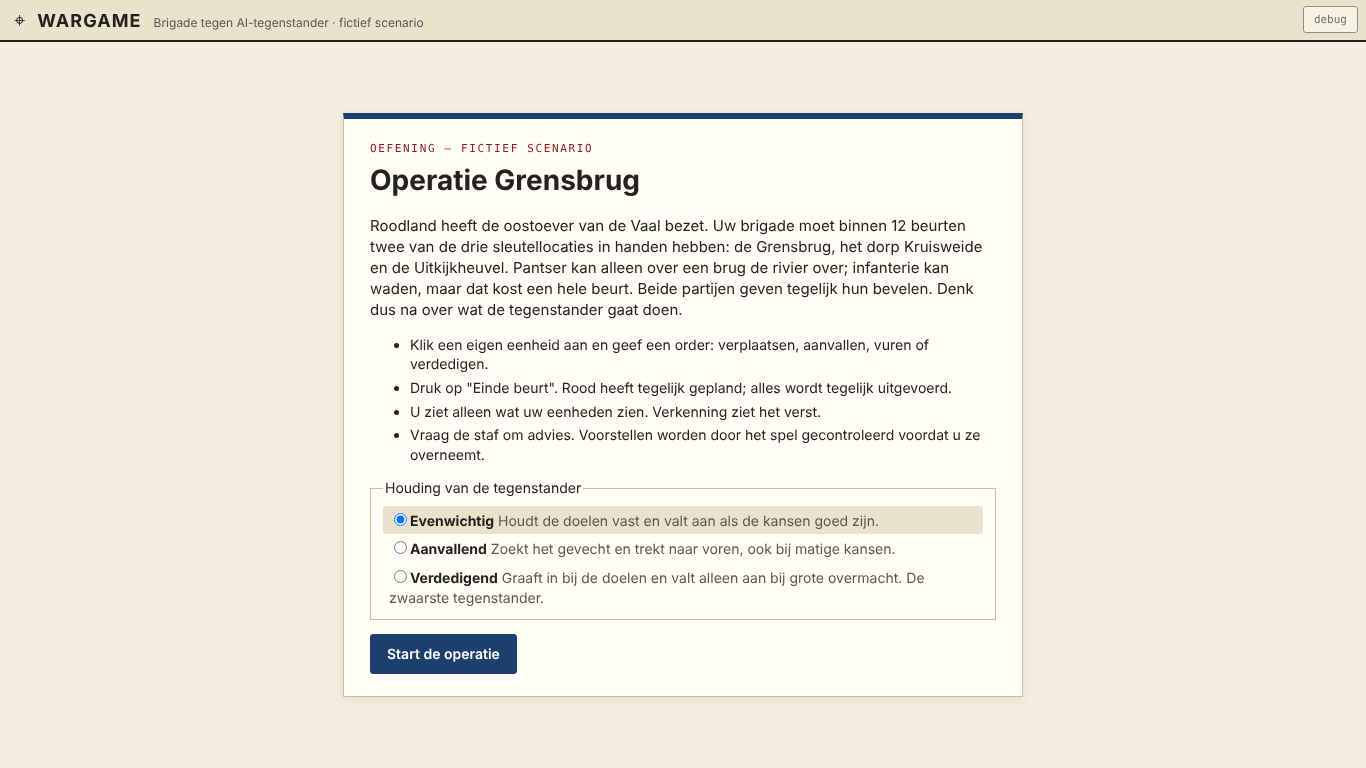
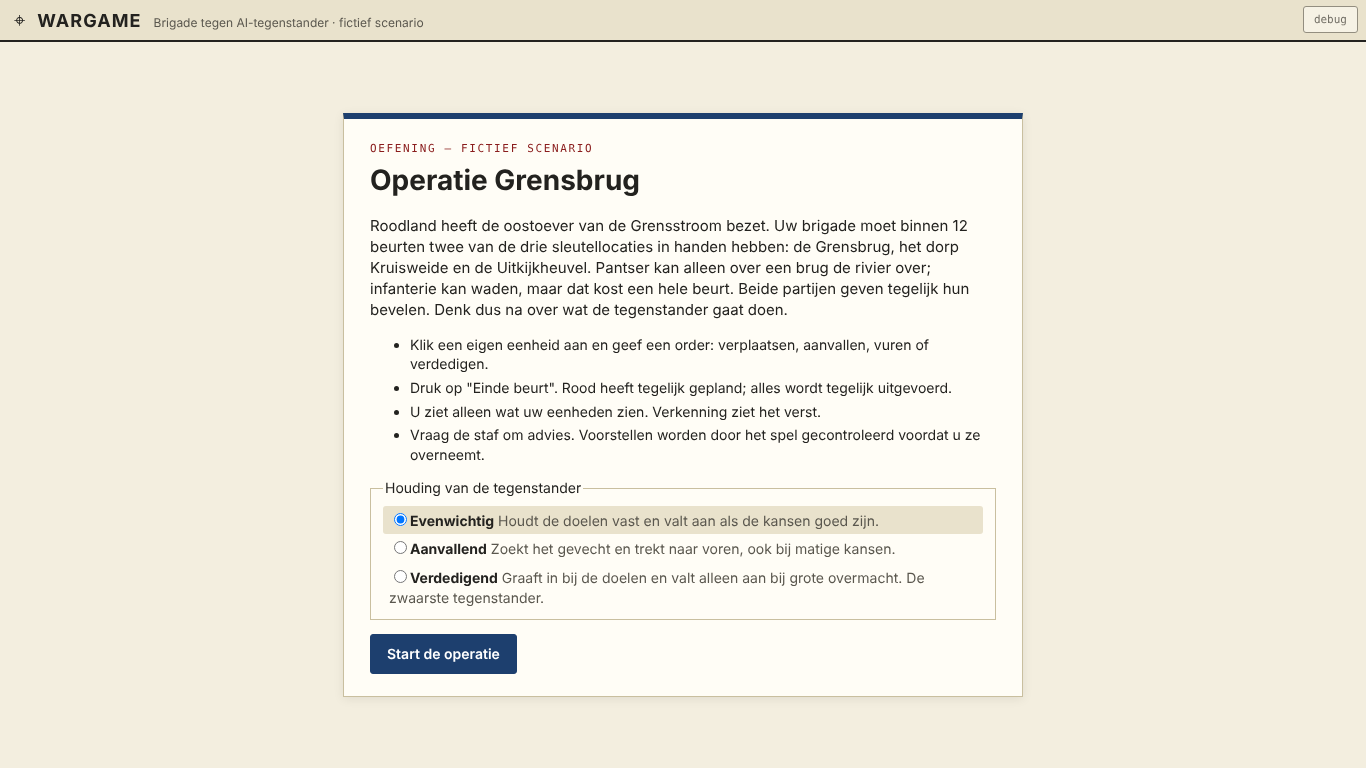
Rivier heet nu Grensstroom (Vaal is een echte rivier)
Claude-Session: https://claude.ai/code/session_01Rm556WdnZWmVemKr4C6Pwj

Changed region(s): [[0.2767, 0.2812, 0.7072, 0.4375]]

diff --git a/packages/engine/src/data/scenarios/grensbrug.ts b/packages/engine/src/data/scenarios/grensbrug.ts
@@ -15,7 +15,7 @@ export const GRENSBRUG: Scenario = {
   id: 'grensbrug',
   name: 'Operatie Grensbrug',
   briefing:
-    'Roodland heeft de oostoever van de Vaal bezet. Uw brigade moet binnen 12 beurten twee van de drie ' +
+    'Roodland heeft de oostoever van de Grensstroom bezet. Uw brigade moet binnen 12 beurten twee van de drie ' +
     'sleutellocaties in handen hebben: de Grensbrug, het dorp Kruisweide en de Uitkijkheuvel. ' +
     'Pantser kan alleen over een brug de rivier over; infanterie kan waden, maar dat kost een hele beurt. ' +
     'Beide partijen geven tegelijk hun bevelen. Denk dus na over wat de tegenstander gaat doen.',
